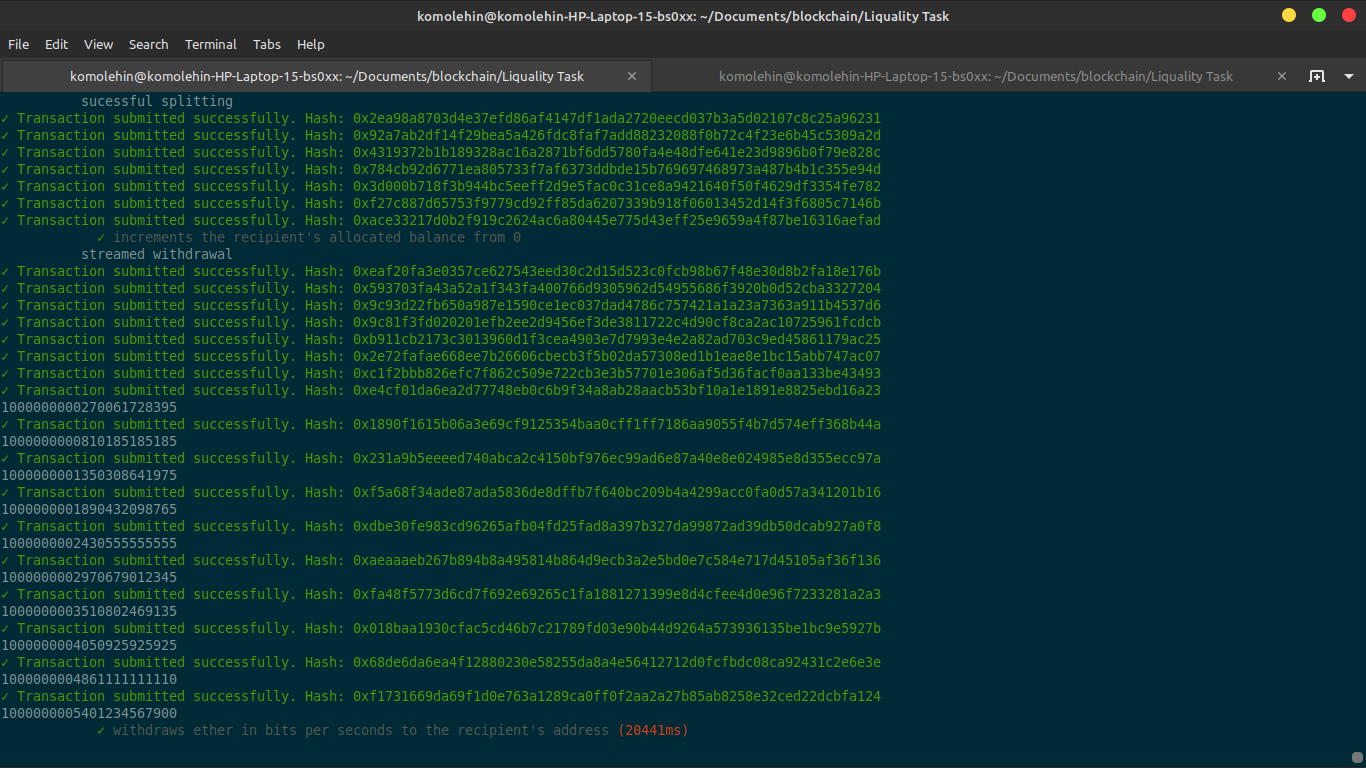
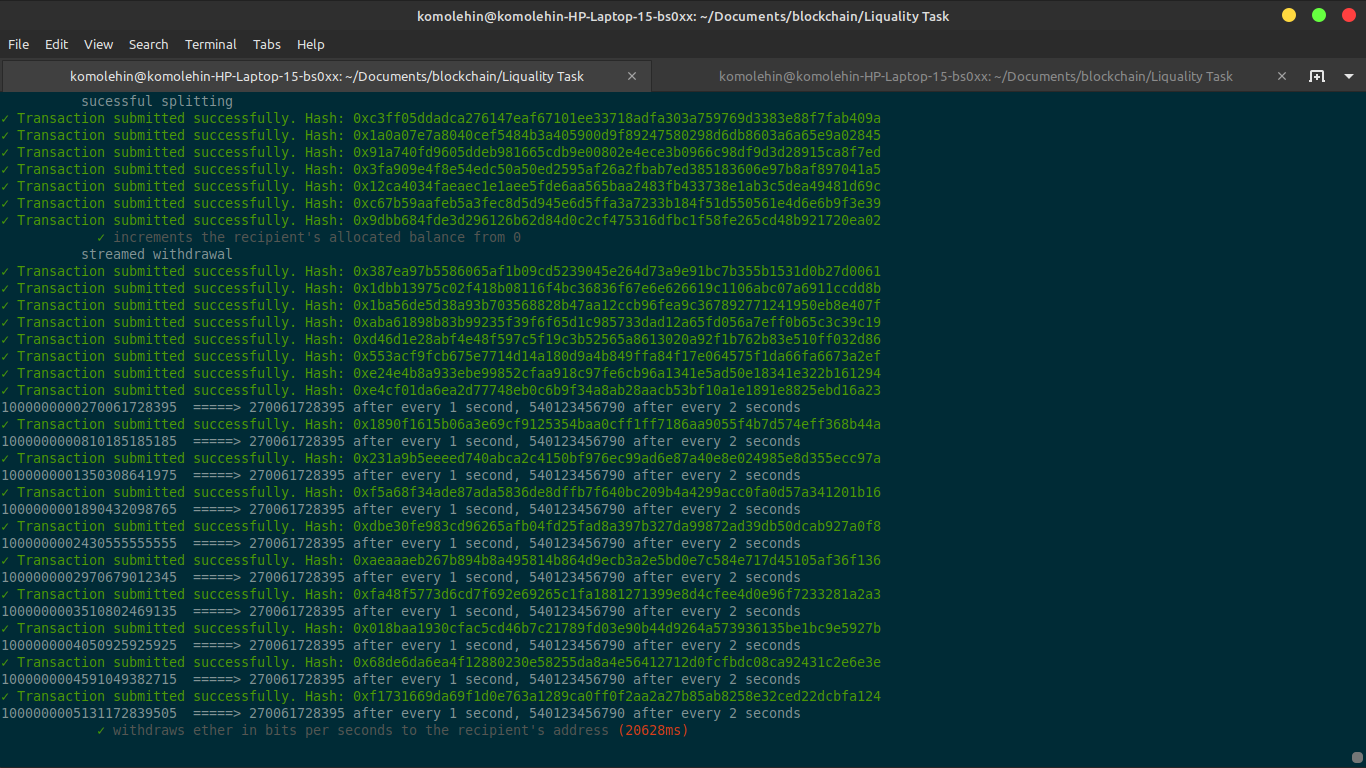
added image to the read me

diff --git a/test/MoneyStream.test.js b/test/MoneyStream.test.js
@@ -105,7 +105,7 @@ contract ("Payment Splitting and Simulated Money Streaming Unit Test", ([splitte
 
                 recipients = [
 
-                    {_recipient: recipient1, _shareValue: 30, _streamDuration: 2592000},
+                    {_recipient: reEntrancyAddress, _shareValue: 30, _streamDuration: 2592000},
                     {_recipient: recipient2, _shareValue: 70, _streamDuration: 2592000},
                     //{_recipient: reEntrancyAddress, _shareValue: 10, _streamDuration: 2592000}
     
@@ -124,7 +124,7 @@ contract ("Payment Splitting and Simulated Money Streaming Unit Test", ([splitte
 
                     it("increments the recipient's allocated balance from 0", async()=>{
 
-                        const recipientBalanceInContract = await paymentContract.getBalance(recipient1, ETHER_ADDRESS)
+                        const recipientBalanceInContract = await paymentContract.getBalance(reEntrancyAddress, ETHER_ADDRESS)
                         recipientBalanceInContract.toString().should.not.be.equal("0", "recipient's allocated ether balance has been incremented from 0")
                         recipientBalanceInContract.toString().should.be.equal((ether(1) * 0.3).toString(), "recipient got 10% as his first allocated ether")
                    

diff --git a/README.md b/README.md
@@ -9,3 +9,4 @@
 * My test values are from the PDF sent so it could be easy to see how well the code works
 
 
+![unit test](liquality smart contract unit test.png)
